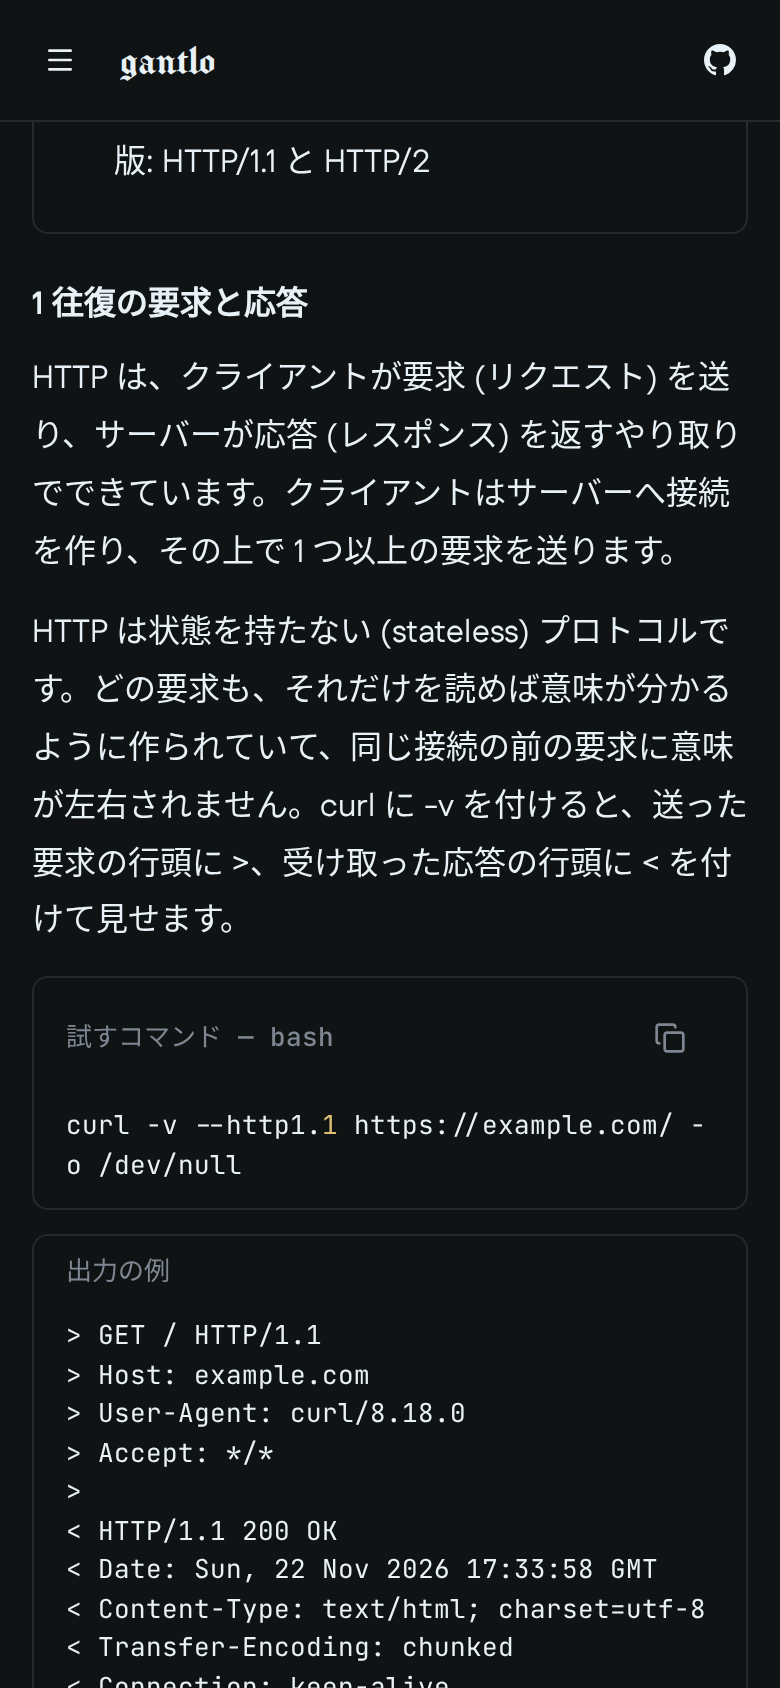
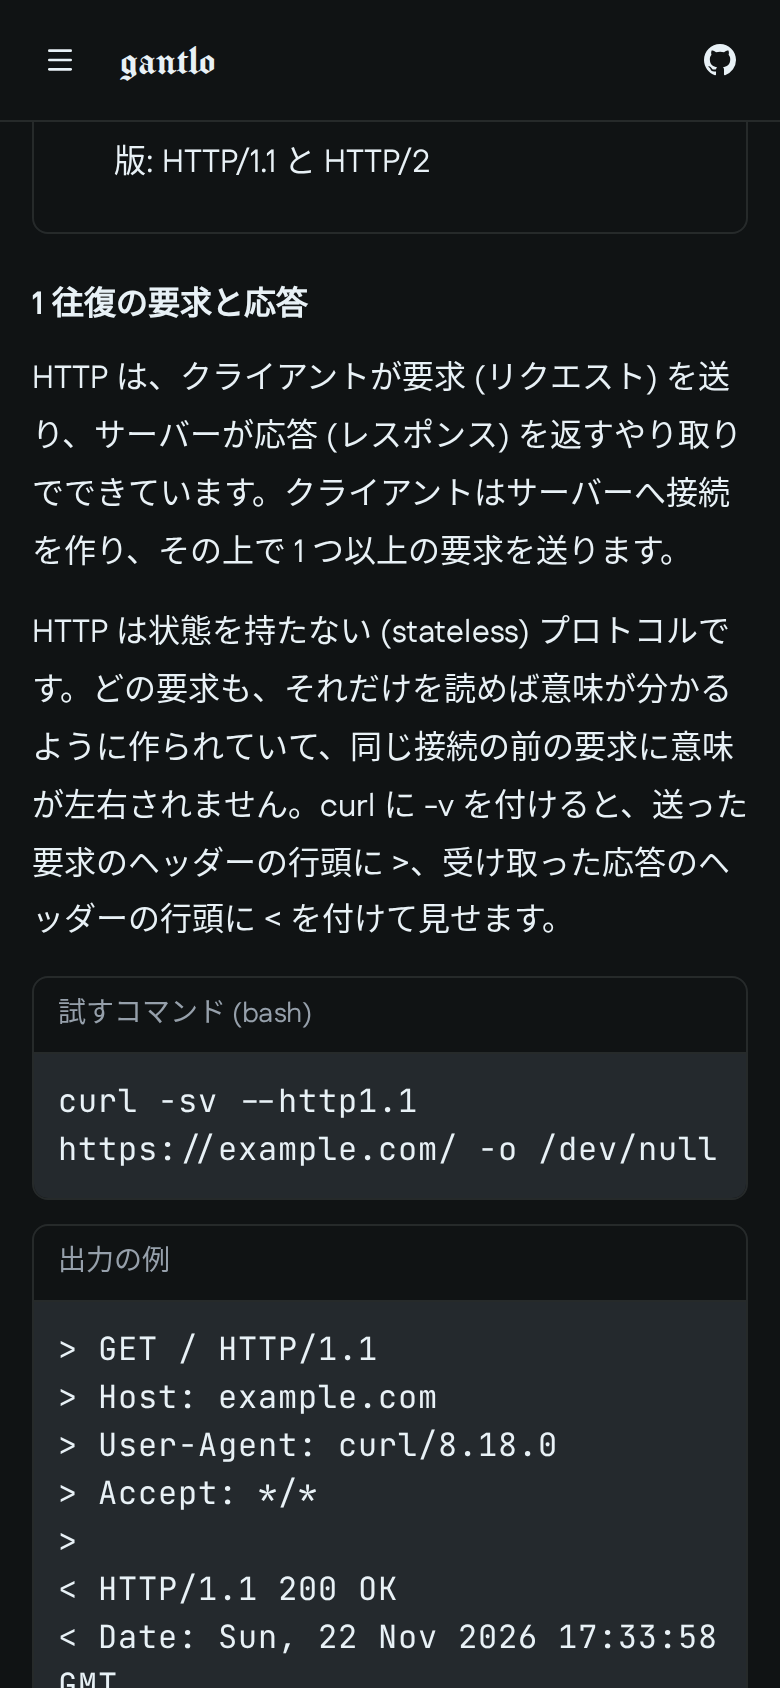
main の取り込み後のずれを直す: 用語集の語へ送り直す・CodeBlock をやめて入口の JS を予算に収める
- main で用語集の語の箱が content-visibility: auto になり、送った後で上の箱の高さが確定して位置がずれた
  (390 幅で y=725)。位置が 2 フレーム動かなくなるまで 0.6 秒まで送り直す。読む人がスクロールしたらやめる
- ハンドブックの画面で Astryx の CodeBlock を使うと、Rolldown がテーマの処理を入口の JS に引き上げ、
  入口が gzip 174,249 B で予算 172 KB を超えた。折り返す <pre> にして 165,545 B (main は 169,084 B)。
  色付けとコピーのボタンは無くなる
- README の画像 (ハンドブック 2 枚・メニューが写る 2 枚) を撮り直した

Refs #50

Changed region(s): [[0.0308, 0.7393, 0.9538, 1.0], [0.0308, 0.5853, 0.9538, 0.7085], [0.0308, 0.4929, 0.9538, 0.5545]]

diff --git a/src/screens/Handbook.tsx b/src/screens/Handbook.tsx
@@ -1,5 +1,4 @@
 import { Card } from '@astryxdesign/core/Card';
-import { CodeBlock } from '@astryxdesign/core/CodeBlock';
 import { Link } from '@astryxdesign/core/Link';
 import { Text } from '@astryxdesign/core/Text';
 import { use } from 'react';
@@ -42,6 +41,21 @@ function Index() {
   );
 }
 
+/**
+ * コマンドと出力の枠。Astryx の CodeBlock は使わない (この画面で使うと、Rolldown がテーマの処理を入口の JS に引き上げ、
+ * 入口が 172 KB の予算を超えるため。色付けとコピーのボタンは無くし、折り返す <pre> にする)
+ */
+function Code({ title, text }: { title: string; text: string }) {
+  return (
+    <figure className="hb-code">
+      <figcaption className="hb-code__title">{title}</figcaption>
+      <pre className="hb-code__body">
+        <code>{text}</code>
+      </pre>
+    </figure>
+  );
+}
+
 /** 節 1 つ。見出し・段落・試すコマンドと出力の例・添え書き・出典 */
 function Section({ s, index }: { s: HandbookSection; index: number }) {
   const id = `s${index + 1}`;
@@ -55,8 +69,8 @@ function Section({ s, index }: { s: HandbookSection; index: number }) {
           {p}
         </p>
       ))}
-      {s.code && <CodeBlock code={s.code.text} language={s.code.language} title="試すコマンド" width="100%" size="sm" isWrapped />}
-      {s.output && <CodeBlock code={s.output} title="出力の例" width="100%" size="sm" hasCopyButton={false} isWrapped />}
+      {s.code && <Code title={`試すコマンド (${s.code.language})`} text={s.code.text} />}
+      {s.output && <Code title="出力の例" text={s.output} />}
       {s.note && <Text type="supporting">{s.note}</Text>}
       <p className="hb-section__sources tap-links">
         <Text type="supporting">出典: </Text>

diff --git a/src/lib/route.ts b/src/lib/route.ts
@@ -91,9 +91,36 @@ export function scrollToHash(hash: string, deadline = Date.now() + 3000) {
     return scrollToTop();
   }
   const el = document.getElementById(id);
-  if (el) el.scrollIntoView();
+  if (el) settleScroll(el);
   else if (Date.now() < deadline) requestAnimationFrame(() => scrollToHash(hash, deadline));
   else scrollToTop();
+}
+
+/**
+ * 要素の位置へ送り、上の箱の高さが確定して位置がずれたら送り直す (用語集の語の箱は content-visibility: auto で、
+ * 描くまでは仮の高さなので、一度では届かない)。位置が 2 フレーム続けて動かなくなるか、0.6 秒で止める。
+ * 読む人がスクロールしたら (wheel・touch・キー) すぐやめる
+ */
+function settleScroll(el: HTMLElement, until = Date.now() + 600) {
+  let last = Number.NaN;
+  let still = 0;
+  let stopped = false;
+  const stop = () => {
+    stopped = true;
+  };
+  const opts = { once: true, passive: true } as const;
+  window.addEventListener('wheel', stop, opts);
+  window.addEventListener('touchstart', stop, opts);
+  window.addEventListener('keydown', stop, opts);
+  const step = () => {
+    if (stopped || !el.isConnected) return;
+    el.scrollIntoView();
+    const top = el.getBoundingClientRect().top;
+    still = Math.abs(top - last) < 1 ? still + 1 : 0;
+    last = top;
+    if (still < 2 && Date.now() < until) requestAnimationFrame(step);
+  };
+  step();
 }
 
 /**

diff --git a/src/styles.css b/src/styles.css
@@ -1768,3 +1768,26 @@ code {
 .hb-section__sources {
   margin: 0;
 }
+/* ハンドブックのコマンドと出力の枠。長い行は折り返し、横にはみ出さない */
+.hb-code {
+  margin: 0;
+  border: 1px solid var(--color-border);
+  border-radius: var(--radius-element);
+  overflow: hidden;
+}
+.hb-code__title {
+  padding: var(--spacing-2) var(--spacing-3);
+  border-bottom: 1px solid var(--color-border);
+  font-size: 0.875rem;
+  color: var(--color-text-secondary);
+}
+.hb-code__body {
+  margin: 0;
+  padding: var(--spacing-3);
+  background: var(--color-background-muted);
+  font-family: var(--font-family-code);
+  font-size: 0.875rem;
+  line-height: 1.6;
+  white-space: pre-wrap;
+  overflow-wrap: anywhere;
+}

diff --git a/README.md b/README.md
@@ -290,7 +290,7 @@ flowchart LR
 | `src/content/glossary.json`・`src/content/glossary.ts` | 用語集の語 (`id`・`term`・`aliases`・11 の規格なら `standard`・`description`・`sources`・`lessons`)。様式と、問題を足したとき (問題の PR が入ったあと) に「出てくるレッスン」へのリンクを足す手順は [docs/content-format.md](docs/content-format.md) |
 | `src/lib/glossary.ts` | 用語集の検索と検査。探す語と語の名前・別名・説明を NFKC でそろえ (全角英数・半角カナ)、大文字小文字・ひらがなとカタカナ・中黒の違いを無くして比べ、名前に当たる語を先に出す。ハイフン・「/」・「.」は英数字に挟まれたときだけ消し (`HTTP/2` と `http2`、`Content-Type` と `contenttype`)、語の頭のハイフン (`-I`) は残す。名前は空白を抜いた形でも比べる (`TLS 1.3` を `TLS1.3` で、`OAuth 2.0` を `OAuth2` で引ける)。出典の URL に空白・`"`・`<`・`>` が無いことも見る。`validateGlossary` は id の形と重なり、名前と別名の重なり (そろえた形で比べる)、https の出典、RFC が節まで指すこと、レッスンが実在すること、11 の規格がそろうことを見る (`tests/glossary.test.ts`) |
 | `src/content/handbook/`・`src/content/handbook.ts`・`src/content/handbook-all.ts`・`src/lib/handbook.ts` | ハンドブックのデータと型。目録 `topics.json` (項目の `id`・扱う規格 `standard`・`title`・`summary`・関係する `lessons`・本文に出てくる用語集の `terms`) は題・メニュー・パンくず・リンクのためにすぐ読み、項目の本文 `sections/<id>.json` は画面を開いたときに読む (`loadSections`。最初の JS に入れない)。書き出しは `handbook-all.ts` で全部の本文を読む。様式は [docs/content-format.md](docs/content-format.md)、検査は `npm run check:content` |
-| `src/screens/Handbook.tsx` | ハンドブックの画面。一覧と項目。節は `#s<番号>` を持ち、目次から飛べる。試すコマンドと出力の例は CodeBlock (折り返す)、出典は新しいタブで開く。関係するレッスンと用語集の語へのリンクを置き、用語集とレッスンの書き出す HTML にも逆向きのリンクを書く |
+| `src/screens/Handbook.tsx` | ハンドブックの画面。一覧と項目。節は `#s<番号>` を持ち、目次から飛べる。試すコマンドと出力の例は折り返す `<pre>` (Astryx の CodeBlock は、この画面で使うとテーマの処理が入口の JS に引き上げられて予算を超えるので使わない)、出典は新しいタブで開く。関係するレッスンと用語集の語へのリンクを置き、用語集とレッスンの書き出す HTML にも逆向きのリンクを書く |
 | `scripts/e2e-handbook.mjs` | `scripts/e2e.mjs` から呼ぶ、ハンドブックの通しの検査 (B-028)。390 幅と 1280 幅で、メニューから一覧が開いて 200 と全項目のリンクが出ること (PC は選ばれた印)、項目の節の数がデータと同じでどの節にも出典の外部リンクがあること、用語集の語へのリンクで # が残り語が画面の上半分に見えること、戻って進んでもその位置へ送ること、節の # 付きの URL (`#s<番号>`) を直に開くとその節が見えること、知らない項目が 404 であること、横にはみ出さないことを見る |
 | `src/screens/Glossary.tsx` | 用語集の画面。語ごとに `#term-<id>` を持つ。出てくるレッスンは目録 (`content/catalog.ts`) で引き、問題データを読まない。語の箱は `content-visibility: auto` (描くまでの高さは `contain-intrinsic-size: auto 14rem`) で、画面の外の語の配置と描画を後回しにする。画面とデータ (`glossary.json`) は、ほかの画面と同じく `src/App.tsx` の `React.lazy` で開いたときに読み、最初の JS に入れない (書き出した HTML には全部の語がある)。出典は新しいタブで開き、出てくるレッスンはサイトの中で開く。「・」の区切りは後ろのリンクと同じ箱に入れ、狭い画面で区切りだけが 1 行を占めないようにする |
 | `scripts/e2e-progress-glossary.mjs` | `scripts/e2e.mjs` から呼ぶ、進捗の画面と用語集の通しの検査。390 幅と 1280 幅で、空の記録と記録を入れたときの正答率・7 日の XP・コースの済み・旅の段・ステータス、用語集の全部の語・出典 (https)・11 の規格の順、全角 (ＨＴＴＰ) と半角カナ (ﾘｿｰｽ) で探せること、当たらないと `204`、レッスンへのリンクで開くこと、placeholder が欄に収まること、390 幅で探す欄・消すボタン・リンクが 44px 以上であることを見る |
